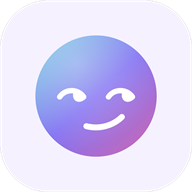
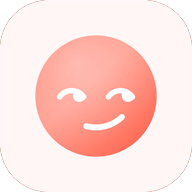
Add files via upload

diff --git a/app.js b/app.js
@@ -815,15 +815,44 @@ function updateNewPartnerHint() {
     : "Nuovo partner: verrà aggiunto salvando l'incontro";
 }
 
+const PHOTO_MAX_SIZE = 900;
+const PHOTO_QUALITY = 0.8;
+
+function compressImage(file) {
+  return new Promise((resolve, reject) => {
+    const reader = new FileReader();
+    reader.onerror = reject;
+    reader.onload = () => {
+      const img = new Image();
+      img.onerror = reject;
+      img.onload = () => {
+        const scale = Math.min(1, PHOTO_MAX_SIZE / Math.max(img.width, img.height));
+        const canvas = document.createElement("canvas");
+        canvas.width = Math.round(img.width * scale);
+        canvas.height = Math.round(img.height * scale);
+        const ctx = canvas.getContext("2d");
+        ctx.drawImage(img, 0, 0, canvas.width, canvas.height);
+        try {
+          resolve(canvas.toDataURL("image/jpeg", PHOTO_QUALITY));
+        } catch {
+          resolve(String(reader.result || "")); // fallback: original data URL
+        }
+      };
+      img.src = String(reader.result || "");
+    };
+    reader.readAsDataURL(file);
+  });
+}
+
 function handlePartnerPhoto(event) {
   const file = event.target.files?.[0];
   if (!file) return;
-  const reader = new FileReader();
-  reader.onload = () => {
-    partnerPhotoData = String(reader.result || "");
-    renderPhotoPreview();
-  };
-  reader.readAsDataURL(file);
+  compressImage(file)
+    .then((dataUrl) => {
+      partnerPhotoData = dataUrl;
+      renderPhotoPreview();
+    })
+    .catch(() => {});
 }
 
 function renderPhotoPreview() {
@@ -835,13 +864,13 @@ function renderPhotoPreview() {
 function handleProfilePhoto(event) {
   const file = event.target.files?.[0];
   if (!file) return;
-  const reader = new FileReader();
-  reader.onload = () => {
-    state.profilePhoto = String(reader.result || "");
-    saveState();
-    renderProfilePhoto();
-  };
-  reader.readAsDataURL(file);
+  compressImage(file)
+    .then((dataUrl) => {
+      state.profilePhoto = dataUrl;
+      saveState();
+      renderProfilePhoto();
+    })
+    .catch(() => {});
 }
 
 function renderProfilePhoto() {